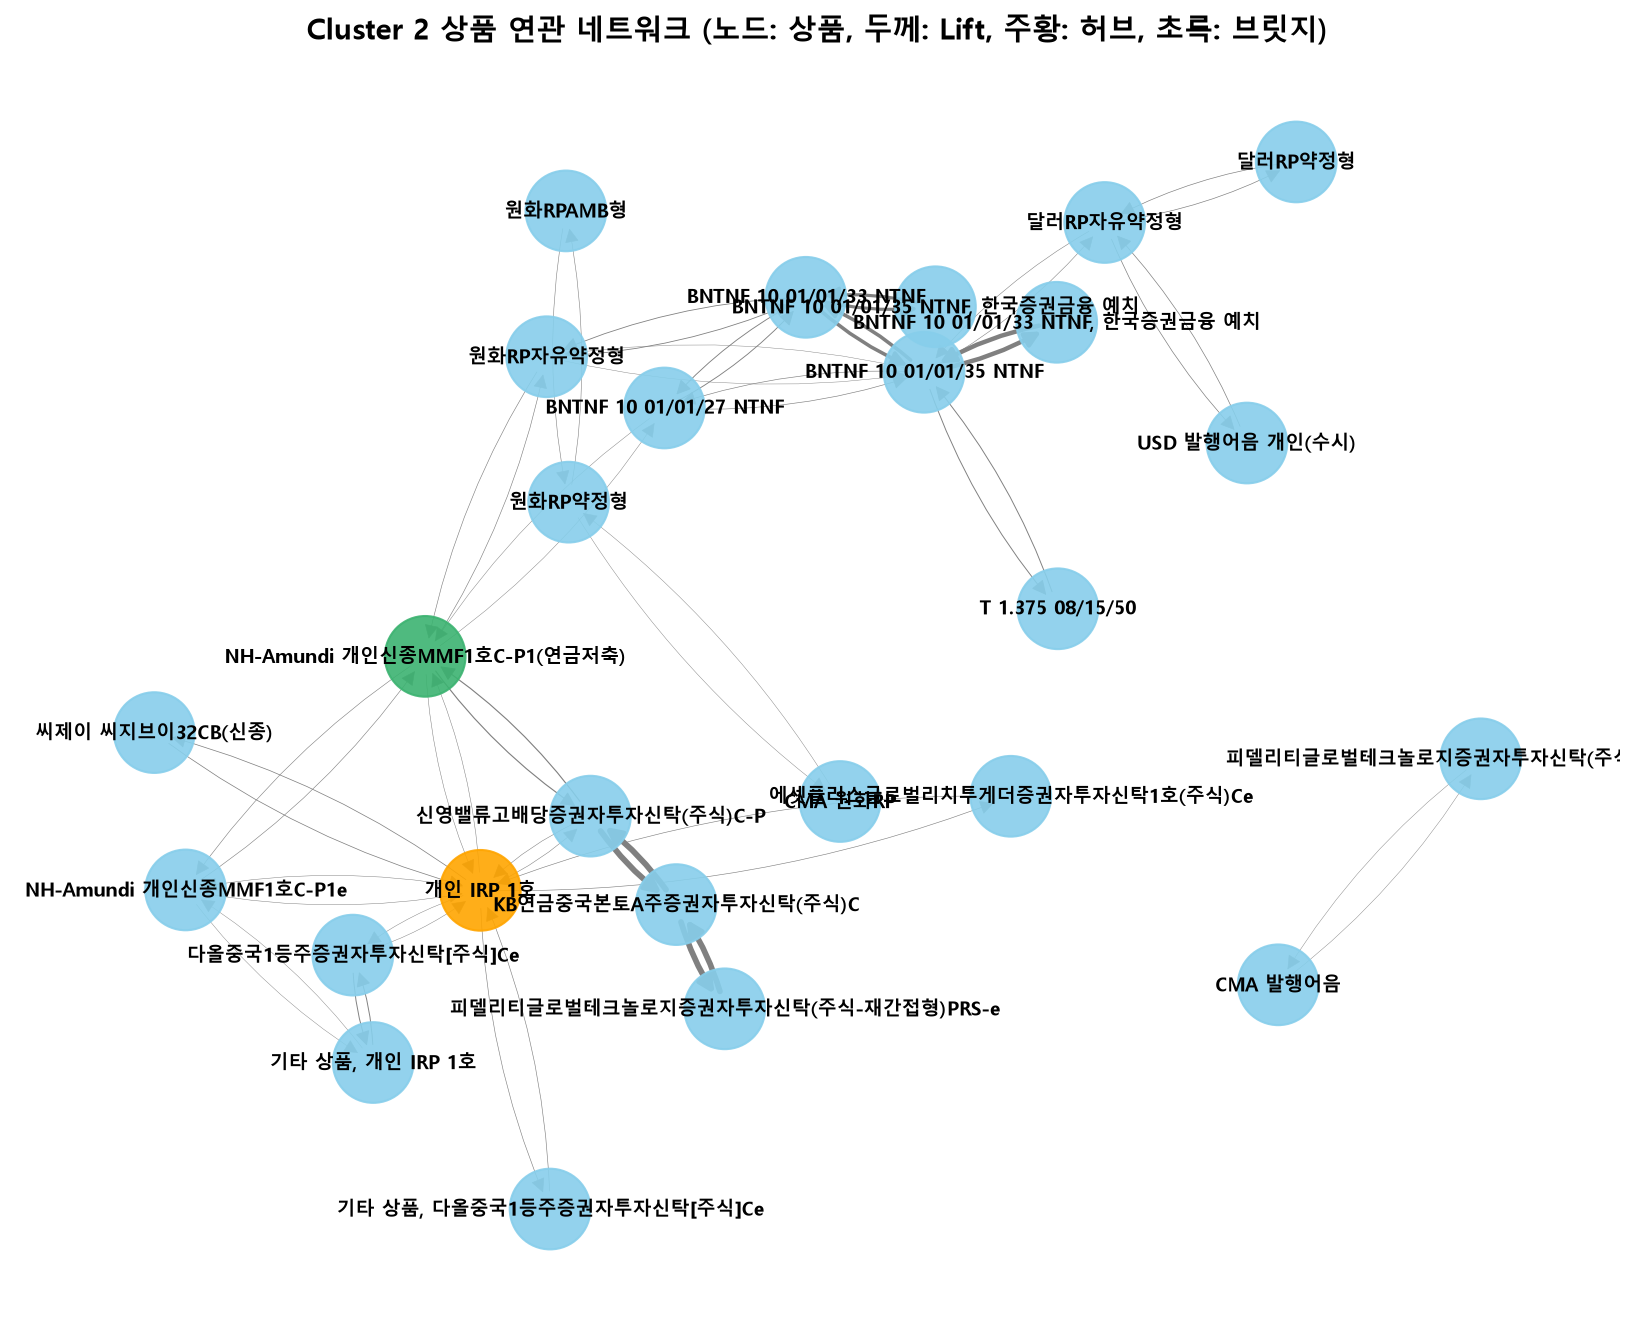
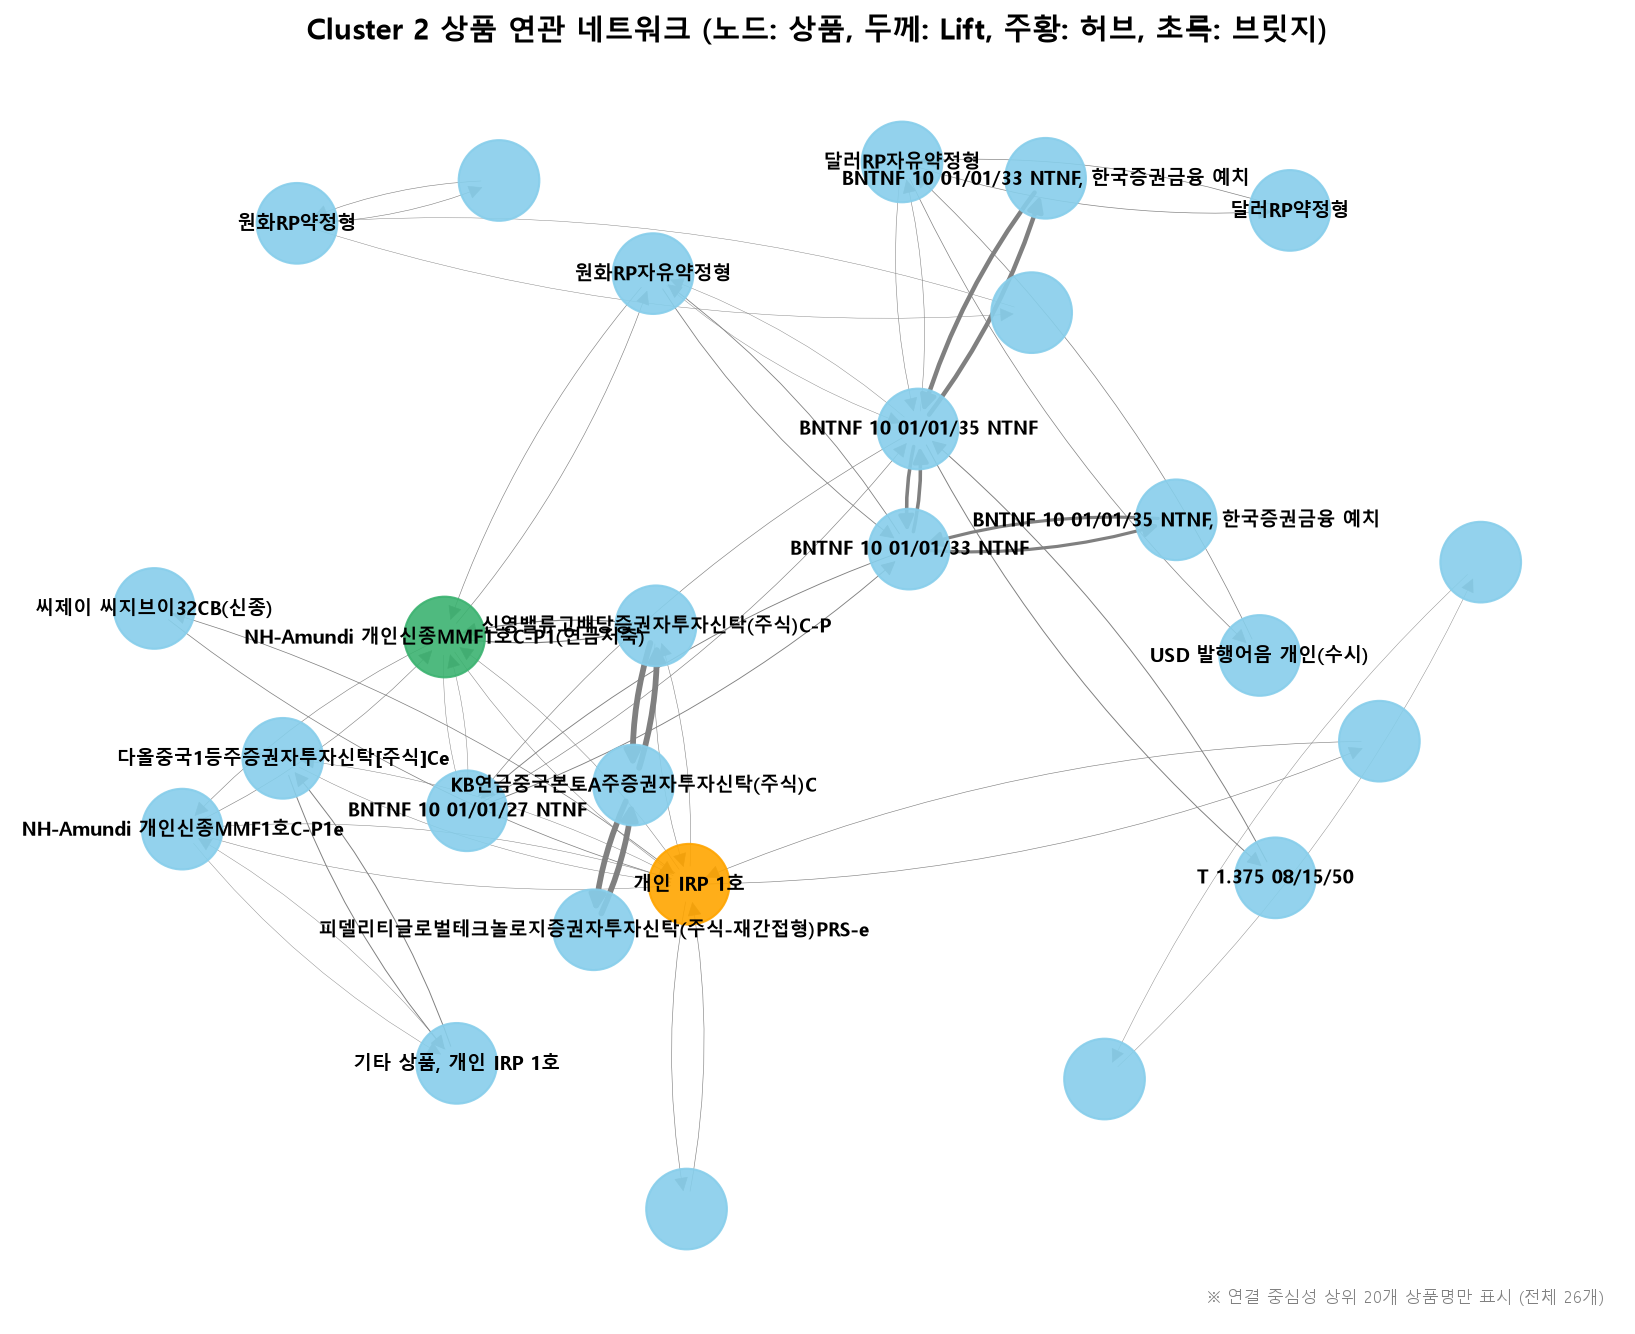
최종 수정

diff --git a/project1/13_networkx_visualization.py b/project1/13_networkx_visualization.py
@@ -39,6 +39,9 @@ rules_df = pd.read_pickle(RULES_PATH)
 # 4. 클러스터별로 각각 독립된 이미지 1장씩 생성
 cluster_ids = sorted(rules_df["cluster"].unique())
 
+# 노드가 많을 때 라벨이 서로 겹치는 걸 막기 위한 상한
+MAX_LABELS = 20
+
 # 클러스터별 중심성 결과를 뒤 요약 출력에서도 재사용할 수 있도록 저장
 centrality_summary = {}
 
@@ -52,9 +55,8 @@ for c_id in cluster_ids:
         & (cluster_rules["consequents"] != "기타 상품")
     ]
 
-    fig, ax = plt.subplots(figsize=(11, 9))
-
     if sub_rules.empty:
+        fig, ax = plt.subplots(figsize=(11, 9))
         ax.set_title(f"Cluster {c_id}: 도출된 규칙 없음", fontsize=14)
         ax.axis("off")
         fig_path = OUTPUT_DIR / f"network_graph_cluster{c_id}.png"
@@ -74,6 +76,8 @@ for c_id in cluster_ids:
         lift = row["lift"]
 
         G.add_edge(ant, con, weight=lift)
+
+    n_nodes = G.number_of_nodes()
 
     # 중심성 지표 계산 (허브 = Degree Centrality, 브릿지 = Betweenness Centrality)
     degree_centrality = nx.degree_centrality(G)
@@ -102,7 +106,7 @@ for c_id in cluster_ids:
         bridge_score = betweenness_centrality[hub_node]
 
     centrality_summary[c_id] = {
-        "nodes": G.number_of_nodes(),
+        "nodes": n_nodes,
         "edges": G.number_of_edges(),
         "rules": total_rule_count,
         "hub": hub_node,
@@ -113,8 +117,13 @@ for c_id in cluster_ids:
         "top5_centrality": top5_centrality,  # [추가]
     }
 
-    # Spring Layout 적용 (노드 간격 조정)
-    pos = nx.spring_layout(G, k=0.8, seed=42)
+    # 노드 수에 비례해 figure 크기와 노드 간격을 동적으로 키움 (라벨 겹침 방지)
+    fig_w = max(11, n_nodes * 0.35)
+    fig_h = max(9, n_nodes * 0.28)
+    fig, ax = plt.subplots(figsize=(fig_w, fig_h))
+
+    layout_k = 0.8 if n_nodes <= MAX_LABELS else 1.4
+    pos = nx.spring_layout(G, k=layout_k, seed=42)
 
     # 허브(연결 중심성 최상위)·브릿지(매개 중심성 최상위) 노드를 시각적으로 강조
     def _node_color(n):
@@ -130,9 +139,26 @@ for c_id in cluster_ids:
     nx.draw_networkx_nodes(
         G, pos, node_size=1500, node_color=node_colors, alpha=0.9, ax=ax
     )
+
+    # 노드가 많으면(MAX_LABELS 초과) 연결 중심성 상위 노드만 라벨 표시
+    if n_nodes > MAX_LABELS:
+        label_nodes = {n for n, _ in top5_centrality}
+        label_nodes |= {
+            n for n, _ in sorted(degree_centrality.items(), key=lambda x: -x[1])[:MAX_LABELS]
+        }
+        label_dict = {n: n for n in label_nodes}
+        ax.text(
+            0.99, 0.01,
+            f"※ 연결 중심성 상위 {MAX_LABELS}개 상품명만 표시 (전체 {n_nodes}개)",
+            transform=ax.transAxes, ha="right", va="bottom", fontsize=8, color="gray",
+        )
+    else:
+        label_dict = {n: n for n in G.nodes()}
+
     nx.draw_networkx_labels(
         G,
         pos,
+        labels=label_dict,
         font_family=plt.rcParams["font.family"],
         font_size=9,
         font_weight="bold",

diff --git a/project1/15_community_detection.py b/project1/15_community_detection.py
@@ -75,6 +75,9 @@ def _get_cmap(name, n):
             return cm.get_cmap(name, n)
 
 
+# 노드가 많을 때 라벨이 서로 겹치는 걸 막기 위한 상한
+MAX_LABELS = 20
+
 cluster_ids = sorted(rules_df["cluster"].unique())
 community_summary = {}
 
@@ -107,6 +110,8 @@ for c_id in cluster_ids:
         else:
             G_undirected.add_edge(u, v, weight=weight)
 
+    n_nodes = G_undirected.number_of_nodes()
+
     if LOUVAIN_SOURCE == "networkx":
         communities = nx.community.louvain_communities(
             G_undirected, weight="weight", seed=42
@@ -128,8 +133,13 @@ for c_id in cluster_ids:
             node_to_community[node] = idx
 
     # 5. 시각화 (그래프 구조는 원본 노드 그대로 사용 - 13번과 동일)
-    fig, ax = plt.subplots(figsize=(11, 9))
-    pos = nx.spring_layout(G_undirected, k=0.8, seed=42)
+    # 노드 수에 비례해 figure 크기와 노드 간격을 동적으로 키움 (라벨 겹침 방지)
+    fig_w = max(11, n_nodes * 0.35)
+    fig_h = max(9, n_nodes * 0.28)
+    fig, ax = plt.subplots(figsize=(fig_w, fig_h))
+
+    layout_k = 0.8 if n_nodes <= MAX_LABELS else 1.4
+    pos = nx.spring_layout(G_undirected, k=layout_k, seed=42)
 
     palette = _get_cmap("tab10", len(communities))
     node_colors = [palette(node_to_community[n]) for n in G_undirected.nodes()]
@@ -137,9 +147,24 @@ for c_id in cluster_ids:
     nx.draw_networkx_nodes(
         G_undirected, pos, node_size=1500, node_color=node_colors, alpha=0.9, ax=ax
     )
+
+    # 노드가 많으면(MAX_LABELS 초과) 연결 중심성 상위 노드만 라벨 표시
+    if n_nodes > MAX_LABELS:
+        degree_centrality = nx.degree_centrality(G_undirected)
+        top_nodes = sorted(degree_centrality.items(), key=lambda x: -x[1])[:MAX_LABELS]
+        label_dict = {n: n for n, _ in top_nodes}
+        ax.text(
+            0.99, 0.01,
+            f"※ 연결 중심성 상위 {MAX_LABELS}개 상품명만 표시 (전체 {n_nodes}개)",
+            transform=ax.transAxes, ha="right", va="bottom", fontsize=8, color="gray",
+        )
+    else:
+        label_dict = {n: n for n in G_undirected.nodes()}
+
     nx.draw_networkx_labels(
         G_undirected,
         pos,
+        labels=label_dict,
         font_family=plt.rcParams["font.family"],
         font_size=9,
         font_weight="bold",

diff --git a/project1/16_dbscan_outlier_detection.py b/project1/16_dbscan_outlier_detection.py
@@ -54,8 +54,6 @@ if KMEANS_PATH is None:
     print("먼저 '11_persona_clustering.py'를 실행해 주세요.")
     sys.exit(1)
 
-print(f"[안내] K-Means 결과 파일 로드: {KMEANS_PATH.name}")
-
 df_processed = pd.read_pickle(PROCESSED_PATH)
 df_kmeans = pd.read_pickle(KMEANS_PATH)
 
@@ -65,7 +63,9 @@ if kmeans_col is None:
     print(f"[오류] K-Means 군집 컬럼을 찾을 수 없습니다. 확인한 컬럼명: {kmeans_col_candidates}")
     sys.exit(1)
 
-# 3. 11/14번과 동일한 피처 엔지니어링 (비교 일관성 유지)
+# 3. 베이스라인 피처 세트로 독립 검증
+#    (10_clustering_evaluation.py의 확장 피처셋과는 별도로, 단순한 4개 피처만으로도
+#     DBSCAN 밀도 기반 이상치 탐지가 안정적으로 작동하는지 교차 검증하기 위한 목적)
 feature_cols = ["age", "income_bracket", "total_transaction_amt", "product_count"]
 clustering_df = df_processed[feature_cols].copy()
 clustering_df["total_transaction_amt"] = np.log1p(clustering_df["total_transaction_amt"])
@@ -78,8 +78,12 @@ n_features = scaled_features.shape[1]
 MIN_SAMPLES = max(10, n_features * 2)
 
 # 4. eps 자동 탐지 (k-distance 그래프의 knee point)
+#    주의: NearestNeighbors는 fit/query에 같은 데이터를 쓰면 자기 자신(거리 0)이
+#    첫 번째 이웃으로 포함된다. 이를 그대로 두면 실제로는 (MIN_SAMPLES-1)번째
+#    이웃까지의 거리를 쓰게 되므로, n_neighbors를 +1 해서 자기 자신을 제외한
+#    진짜 MIN_SAMPLES번째 이웃 거리를 구한다.
 print(f"[처리 중] k-distance 계산 중 (min_samples={MIN_SAMPLES})... 데이터 규모(전체 {len(scaled_features):,}건)에 따라 몇 분 소요될 수 있습니다.")
-nn = NearestNeighbors(n_neighbors=MIN_SAMPLES, n_jobs=-1)
+nn = NearestNeighbors(n_neighbors=MIN_SAMPLES + 1, n_jobs=-1)
 nn.fit(scaled_features)
 distances, _ = nn.kneighbors(scaled_features)
 k_distances = np.sort(distances[:, -1])

diff --git a/project1/3_eda_missing_values.py b/project1/3_eda_missing_values.py
@@ -3,7 +3,10 @@ import pandas as pd
 import numpy as np
 
 # 1. 동적 경로 설정
-BASE_DIR = Path(__file__).resolve().parent
+try:
+    BASE_DIR = Path(__file__).resolve().parent
+except NameError:
+    BASE_DIR = Path.cwd()
 csv_path = BASE_DIR / "data" / "소비자.csv"
 
 # 데이터 불러오기
@@ -18,13 +21,15 @@ missing_df = pd.DataFrame({
     '명시적_결측비율(%)': (df.isnull().sum() / len(df) * 100).round(2)
 })
 
-# 3. 암묵적 결측치 집계 (공백을 완벽히 제거 후 키워드 검색)
+# 3. 암묵적 결측치 집계 (공백 제거 후, 셀 값 전체가 키워드와 "완전히 일치"하는 경우만 카운트)
+# 주의: str.contains()를 쓰면 "기타 상품"처럼 키워드를 부분 문자열로 포함하는
+# 정상 카테고리 값까지 결측으로 오분류되므로, 반드시 전체 일치(exact match)로 검사해야 함
 implicit_missing_counts = []
-keywords = '미답변|미응답|없음|모름|기타'
+keywords = ['미답변', '미응답', '없음', '모름', '기타']
 
 for col in df.columns:
     col_str = df[col].astype(str).str.replace(r'\s+', '', regex=True)
-    is_implicit = col_str.str.contains(keywords, regex=True, na=False) & df[col].notnull()
+    is_implicit = col_str.isin(keywords) & df[col].notnull()
     cnt = is_implicit.sum()
     implicit_missing_counts.append(cnt)
 

diff --git a/project1/2_eda_categorical_unique.py b/project1/2_eda_categorical_unique.py
@@ -23,7 +23,10 @@ plt.rcParams["axes.unicode_minus"] = False
 sns.set_theme(style="whitegrid", font=plt.rcParams["font.family"])
 
 # 2. 동적 경로 설정 및 데이터 검증
-BASE_DIR = Path(__file__).resolve().parent
+try:
+    BASE_DIR = Path(__file__).resolve().parent
+except NameError:
+    BASE_DIR = Path.cwd()
 PROCESSED_PATH = BASE_DIR / "output" / "customer_processed.pkl"
 
 if not PROCESSED_PATH.exists():

diff --git a/project1/8_eda_relationships.py b/project1/8_eda_relationships.py
@@ -21,7 +21,10 @@ plt.rcParams["axes.unicode_minus"] = False
 sns.set_theme(style="whitegrid", font=plt.rcParams["font.family"])
 
 # 2. 동적 경로 설정 및 데이터 검증
-BASE_DIR = Path(__file__).resolve().parent
+try:
+    BASE_DIR = Path(__file__).resolve().parent
+except NameError:
+    BASE_DIR = Path.cwd()
 PROCESSED_PATH = BASE_DIR / "output" / "customer_processed.pkl"
 
 if not PROCESSED_PATH.exists():

diff --git a/project1/9_eda_visualizations_advanced.py b/project1/9_eda_visualizations_advanced.py
@@ -23,7 +23,10 @@ plt.rcParams["axes.unicode_minus"] = False
 sns.set_theme(style="whitegrid", font=plt.rcParams["font.family"])
 
 # 2. 동적 경로 설정 및 데이터 검증
-BASE_DIR = Path(__file__).resolve().parent
+try:
+    BASE_DIR = Path(__file__).resolve().parent
+except NameError:
+    BASE_DIR = Path.cwd()
 PROCESSED_PATH = BASE_DIR / "output" / "customer_processed.pkl"
 
 if not PROCESSED_PATH.exists():

diff --git a/project1/4_customer_data_vis.py b/project1/4_customer_data_vis.py
@@ -18,7 +18,10 @@ plt.rc("axes", unicode_minus=False)
 sns.set_theme(style="whitegrid", font=plt.rcParams["font.family"])
 
 # 2. 동적 경로 설정 및 데이터 검증
-BASE_DIR = Path(__file__).resolve().parent
+try:
+    BASE_DIR = Path(__file__).resolve().parent
+except NameError:
+    BASE_DIR = Path.cwd()
 PROCESSED_PATH = BASE_DIR / "output" / "customer_processed.pkl"
 
 if not PROCESSED_PATH.exists():

diff --git a/project1/5_eda_summary_stats.py b/project1/5_eda_summary_stats.py
@@ -6,7 +6,10 @@ import pandas as pd
 warnings.filterwarnings("ignore")
 
 # 1. 동적 경로 설정 및 예외 처리
-BASE_DIR = Path(__file__).resolve().parent
+try:
+    BASE_DIR = Path(__file__).resolve().parent
+except NameError:
+    BASE_DIR = Path.cwd()
 PROCESSED_PATH = BASE_DIR / "output" / "customer_processed.pkl"
 CSV_PATH = BASE_DIR / "data" / "소비자.csv"
 

diff --git a/project1/7_eda_product_distribution.py b/project1/7_eda_product_distribution.py
@@ -7,7 +7,10 @@ import pandas as pd
 warnings.filterwarnings("ignore")
 
 # 1. 동적 경로 설정 및 예외 처리
-BASE_DIR = Path(__file__).resolve().parent
+try:
+    BASE_DIR = Path(__file__).resolve().parent
+except NameError:
+    BASE_DIR = Path.cwd()
 PROCESSED_PATH = BASE_DIR / "output" / "customer_processed.pkl"
 CSV_PATH = BASE_DIR / "data" / "소비자.csv"
 

diff --git a/project1/10_clustering_evaluation.py b/project1/10_clustering_evaluation.py
@@ -24,7 +24,10 @@ else:
 plt.rcParams["axes.unicode_minus"] = False
 
 # 2. 동적 경로 설정 및 전처리 데이터 로드
-BASE_DIR = Path(__file__).resolve().parent
+try:
+    BASE_DIR = Path(__file__).resolve().parent
+except NameError:
+    BASE_DIR = Path.cwd()
 PROCESSED_PATH = BASE_DIR / "output" / "customer_processed.pkl"
 
 if not PROCESSED_PATH.exists():

diff --git a/project1/11_persona_clustering.py b/project1/11_persona_clustering.py
@@ -20,7 +20,10 @@ else:
 plt.rcParams["axes.unicode_minus"] = False
 
 # 2. 동적 경로 설정 및 군집화 데이터 로드
-BASE_DIR = Path(__file__).resolve().parent
+try:
+    BASE_DIR = Path(__file__).resolve().parent
+except NameError:
+    BASE_DIR = Path.cwd()
 CLUSTERED_PATH = BASE_DIR / "output" / "customer_clustered.pkl"
 
 if not CLUSTERED_PATH.exists():
